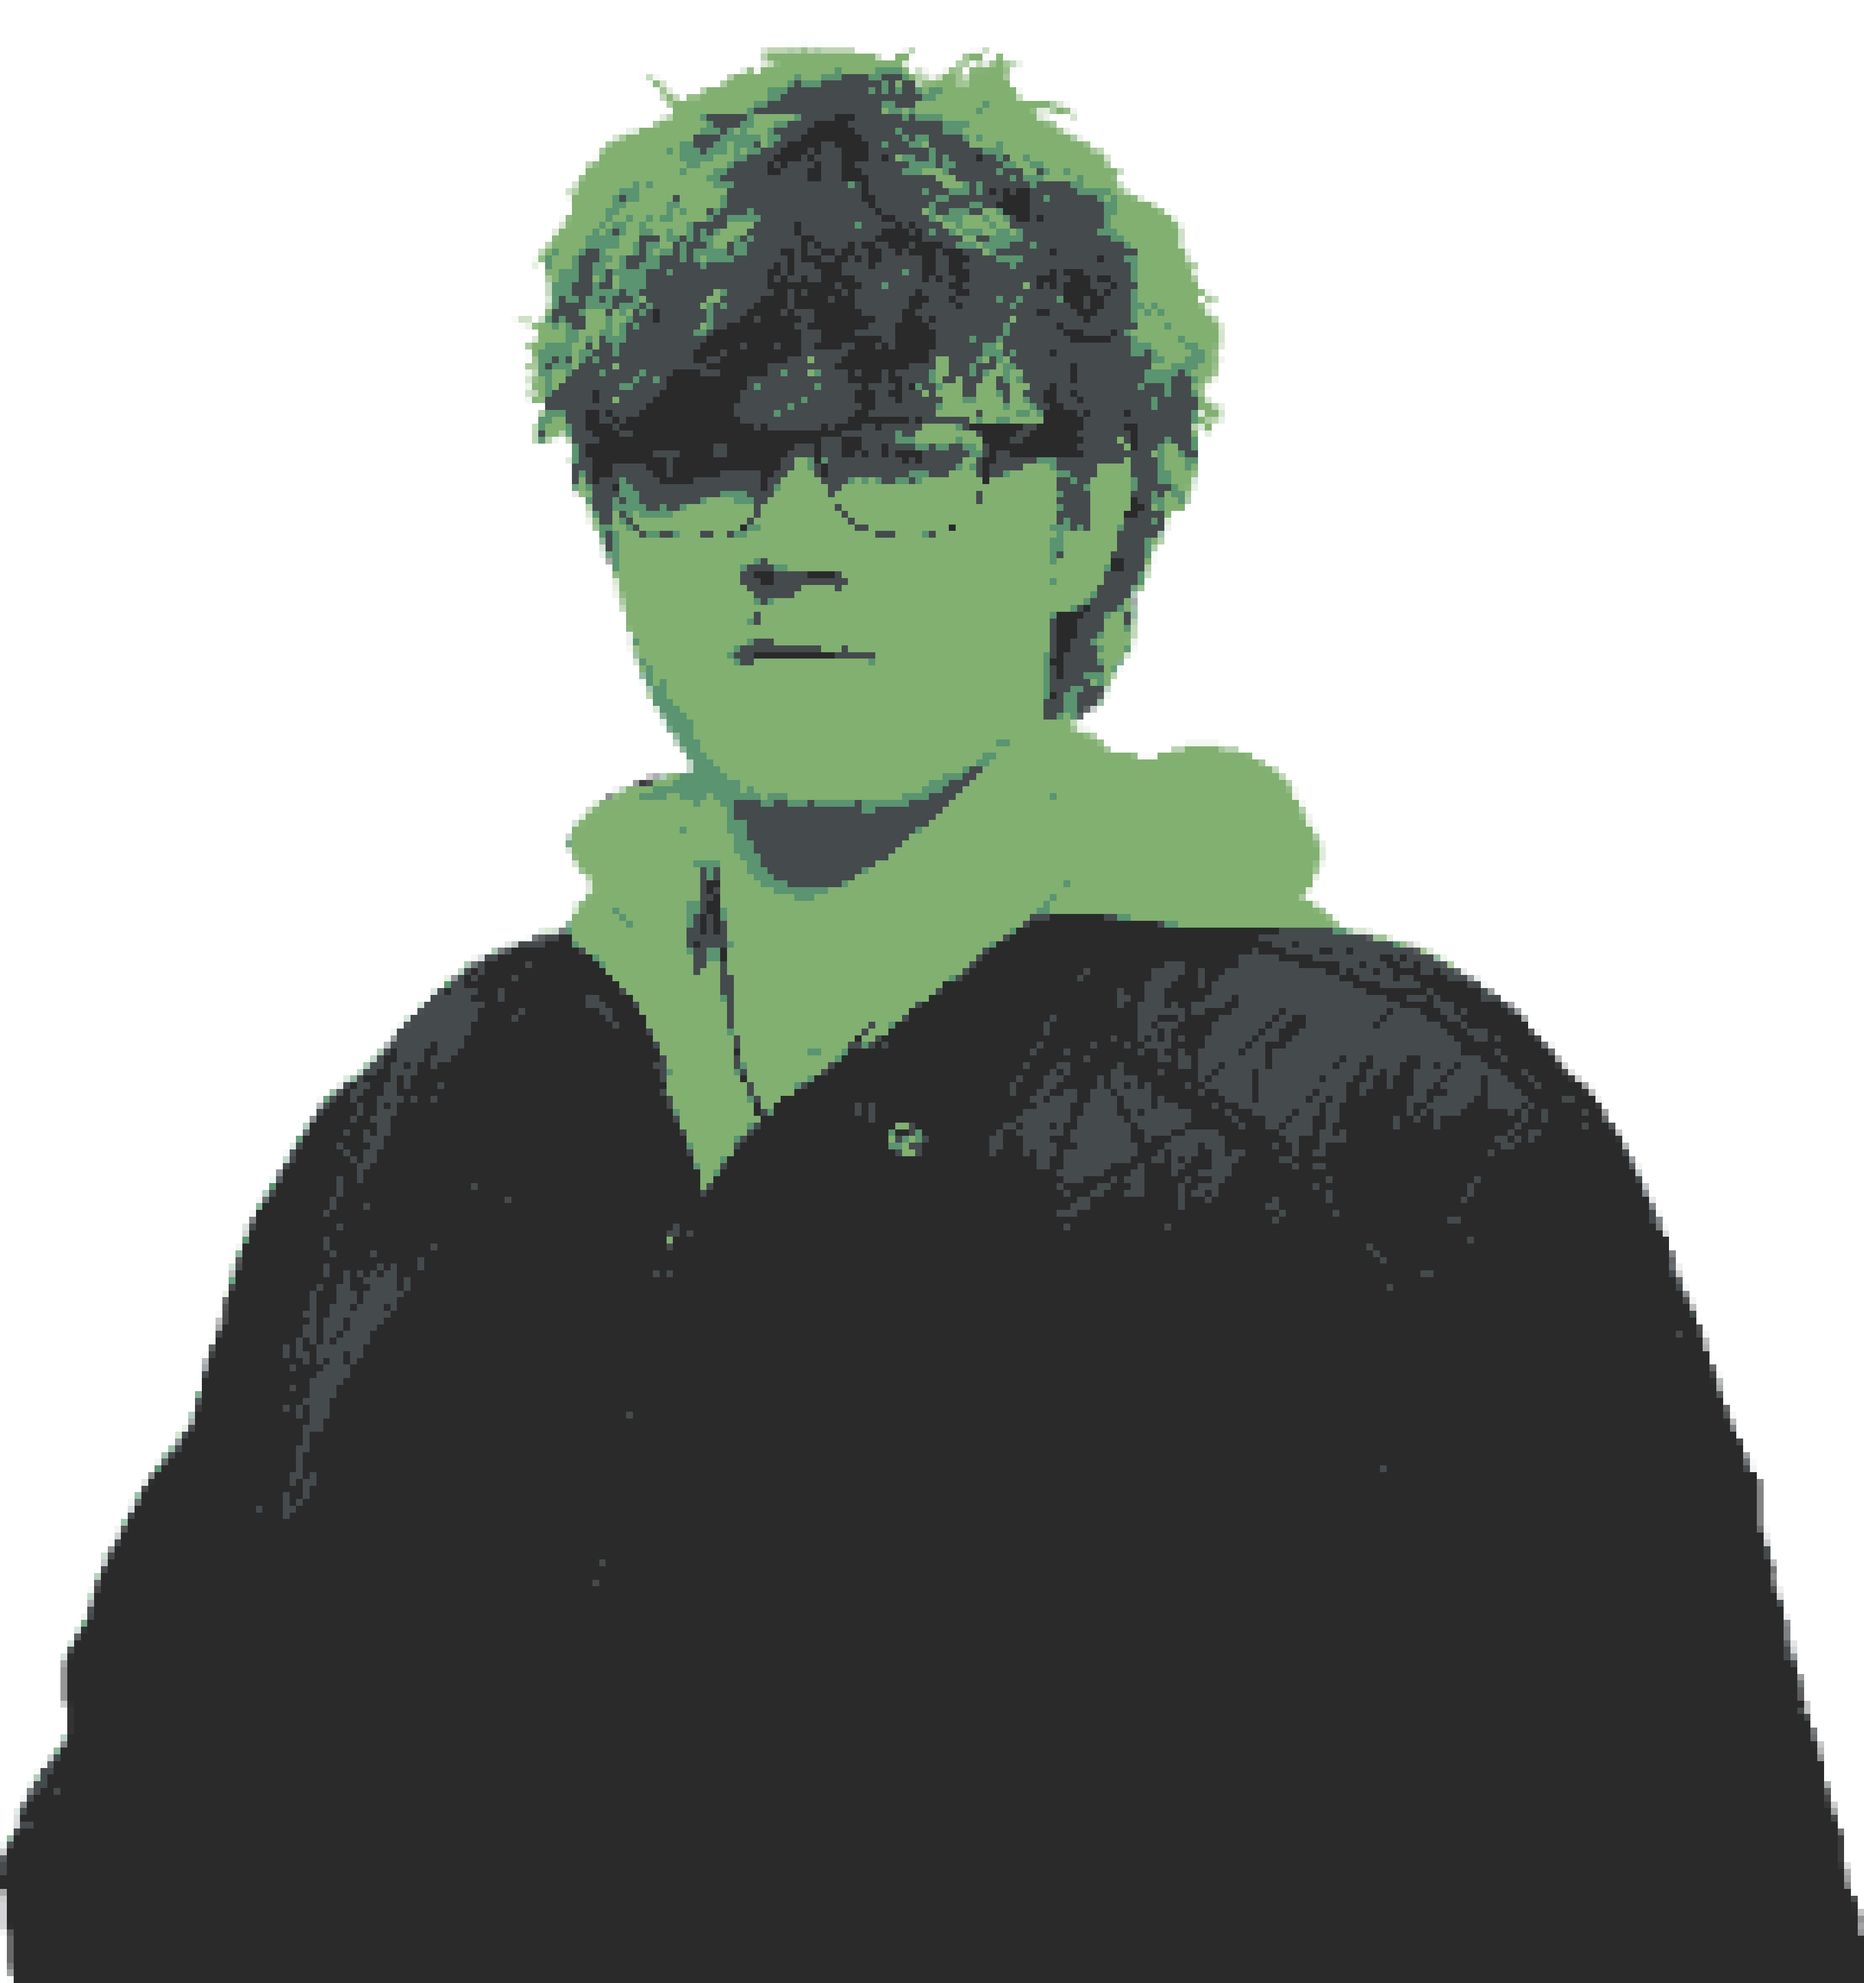
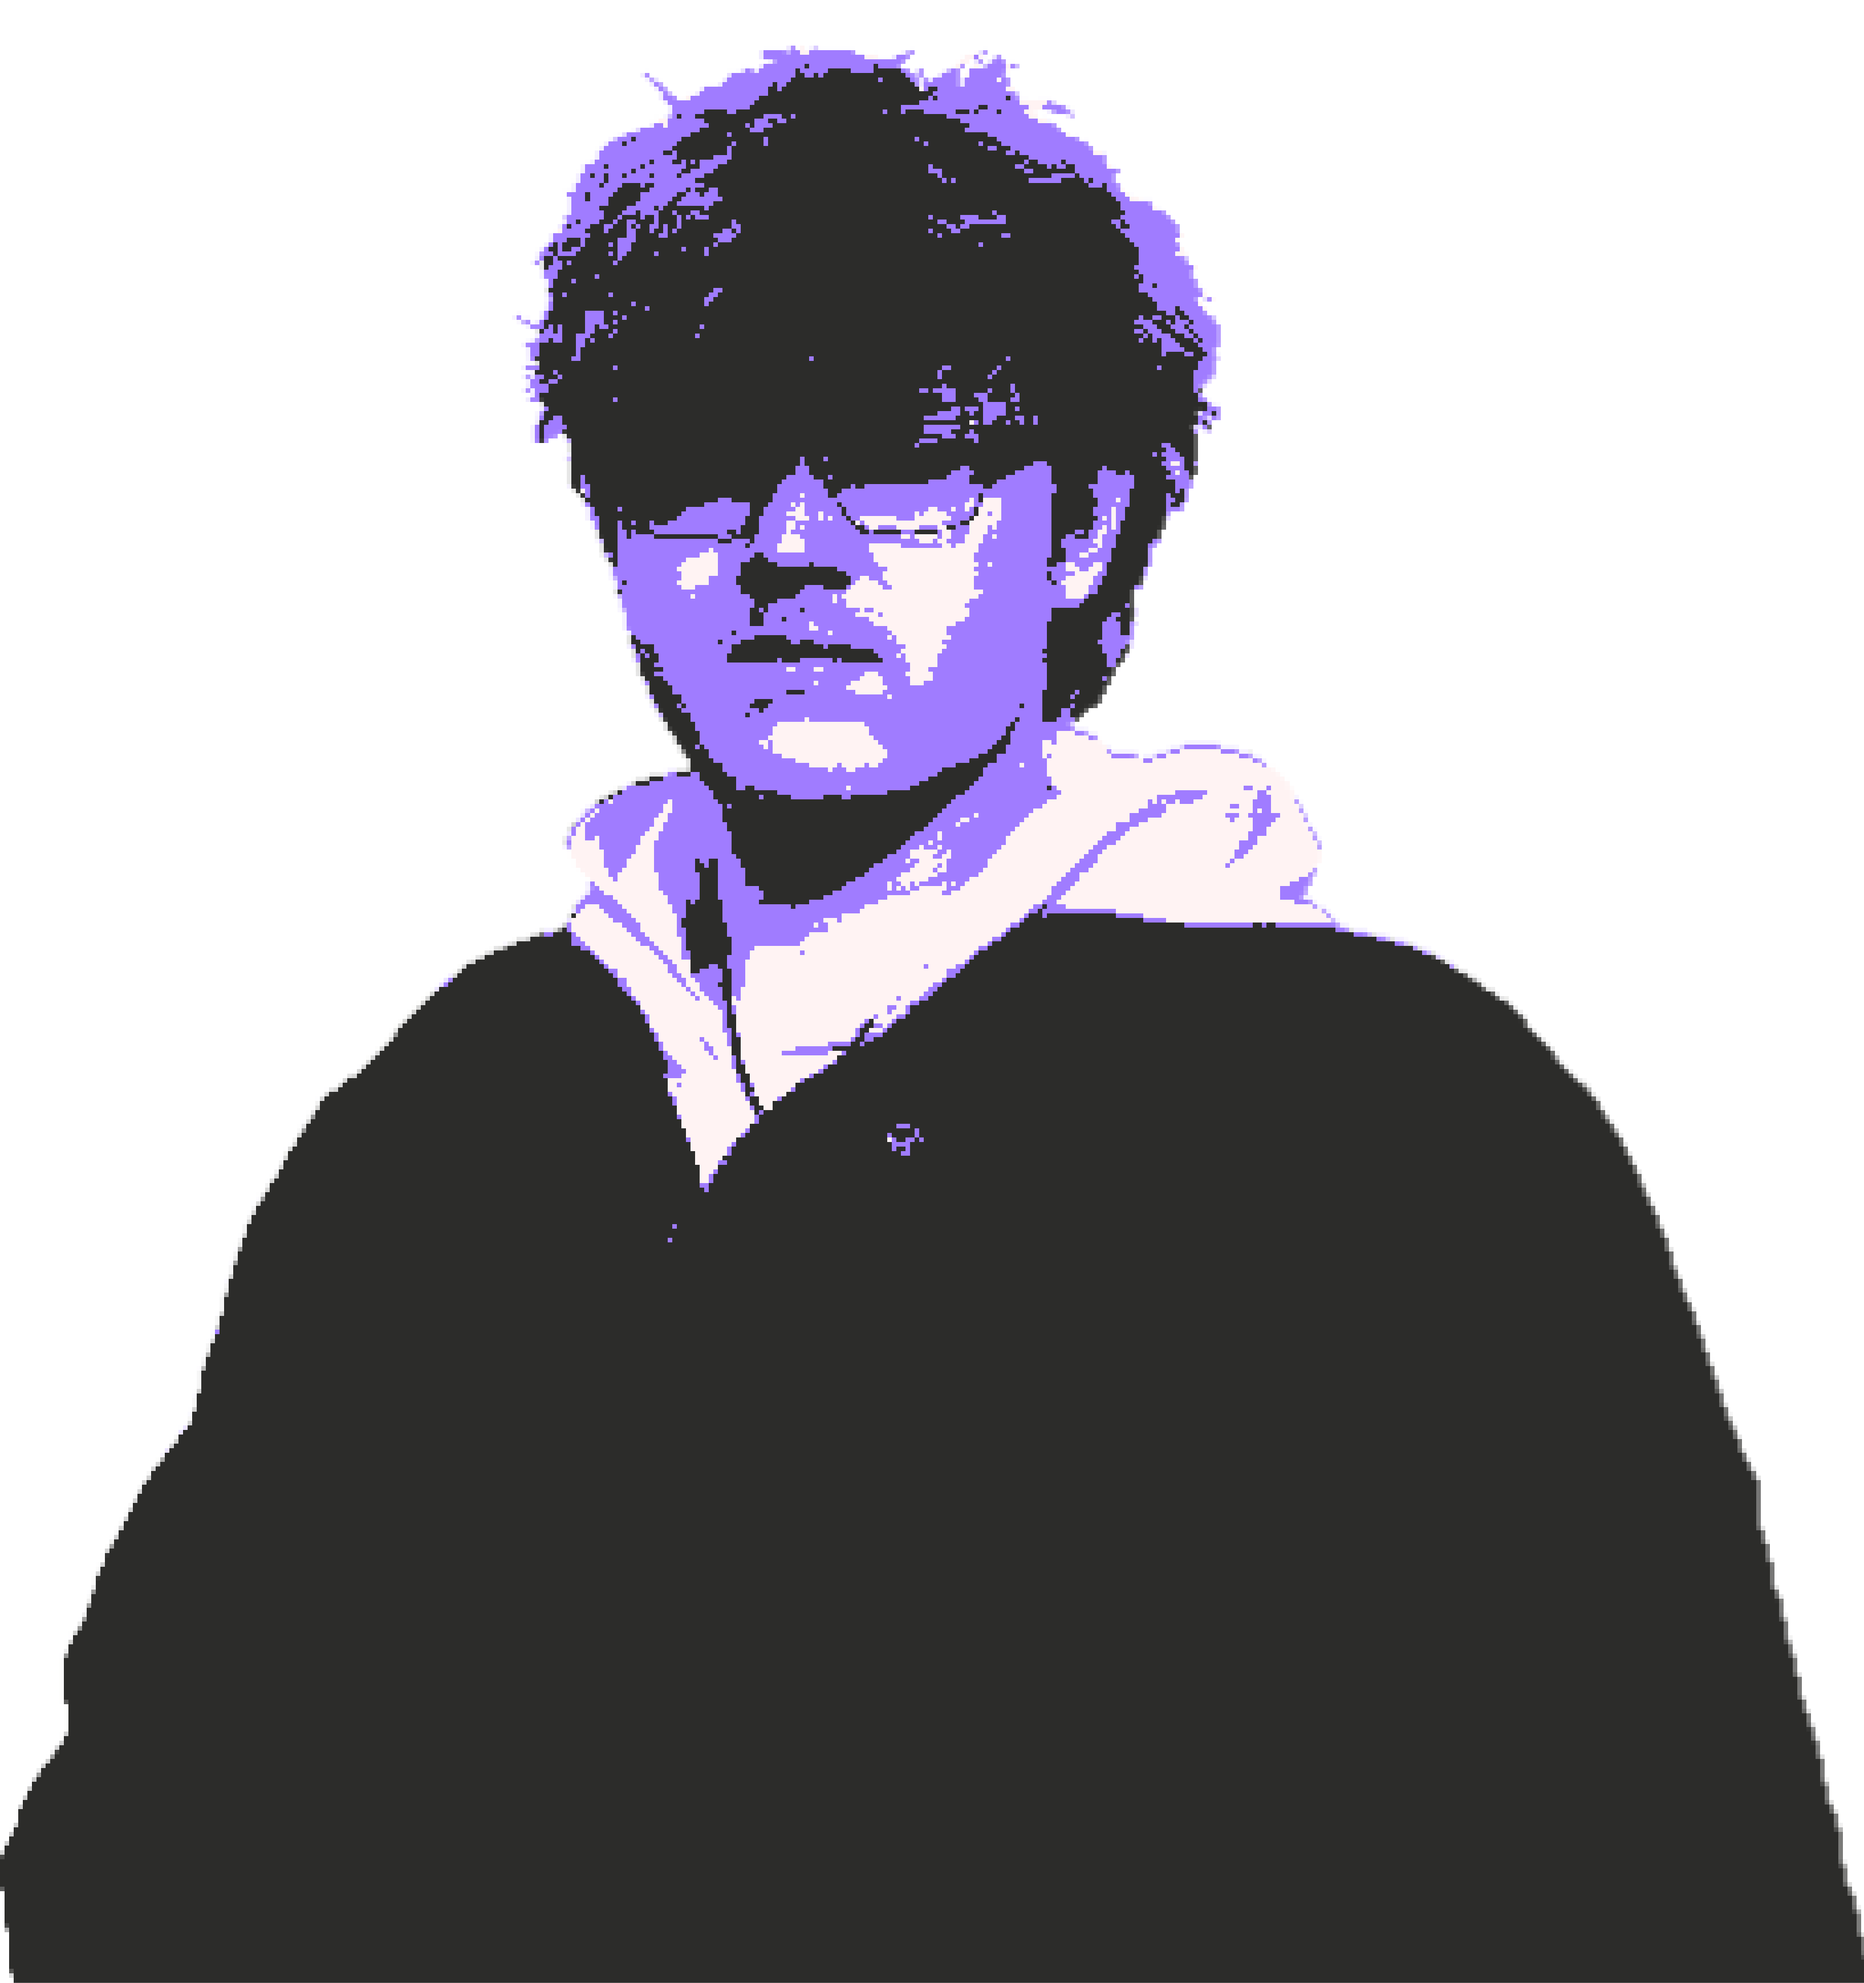
frick it andere kleuren

diff --git a/css/main.css b/css/main.css
@@ -3,7 +3,7 @@ body {
   text-align: center;
   margin: 0;
   padding: 0;
-  background-color: #2f7571;
+  background-color: #2c2c2a;
   /* background-image: url("../img/brickwallVAR2.png"); */
   display: flex;
   flex-direction: column;
@@ -19,7 +19,7 @@ body {
 
 /* Anti-text decoration */
 body a:visited {
-  color: #2a2a2b;
+  color: #fff3f3;
 }
 
 a:link {
@@ -28,32 +28,37 @@ a:link {
 
 /* Text */
 h1{
-  color: #2a2a2b;
+  color: #fff3f3;
   font-size: 50px;
-  -webkit-text-stroke: #454a4d 0.2px;
+  -webkit-text-stroke: #a07cff 0.2px;
 }
 
 h2 {
-  color: #2a2a2b;
-  -webkit-text-stroke: #454a4d 0.5px;
+  color: #fff3f3;
+  -webkit-text-stroke: #a07cff 0.5px;
 }
 
 p {
-  color: #2a2a2b;
+  color: #fff3f3;
   font-size: 30px;
-  -webkit-text-stroke: #454a4d 0.5px;
+  -webkit-text-stroke: #a07cff 0.5px;
 }
 
 h3 {
-  color: #2a2a2b;
+  color: #fff3f3;
   font-size: 35px;
-  -webkit-text-stroke: #454a4d 0.5px;
+  -webkit-text-stroke: #a07cff 0.5px;
 }
 
 h4 {
-  color: #2a2a2b;
+  color: #fff3f3;
   font-size: 40px;
-  -webkit-text-stroke: #454a4d 0.2px;
+  -webkit-text-stroke: #a07cff 0.2px;
+}
+
+h5 {
+  color: #fff3f3;
+  font-size: 25px;
 }
 
 
@@ -61,8 +66,8 @@ h4 {
 .custom-text a {
   text-decoration: none;
   font-family: VCR_OSD_MONO_1;
-  color: #2a2a2b;
-  -webkit-text-stroke: #454a4d 0.5px;
+  color: #fff3f3;
+  -webkit-text-stroke: #a07cff 0.5px;
   display: block;
   text-align: center; /* Center the text horizontally */
 }
@@ -74,11 +79,11 @@ h4 {
             left: 50%;
             font-family: VCR_OSD_MONO_1;
             font-size: 20px;
-            color: #2a2a2b;
+            color: #fff3f3;
           }
 
           .custom-text a:visited {
-            color: #2a2a2b;
+            color: #fff3f3;
           }
 
           .blinking-text {

diff --git a/css/saves.css b/css/saves.css
@@ -10,13 +10,24 @@
   line-height: 50px; /* Set line height to match button height */
   cursor: pointer;
   text-decoration: none;
-  color: #5a9470;
+  color: #fff3f3;
   position: relative; /* Add relative positioning */
 }
 
+.btn:hover {
+  background-color: #fff3f3;
+  color: #2c2c2a !important;
+  text-shadow: none;
+  top: -2px; /* Offset the button slightly up when hovering */
+  padding-left: 15px;
+  padding-right: 15px;
+  padding-top: -30px;
+  padding-bottom: -30px;
+}
+
 .btn:hover, .inv {
-  background-color: #81b071;
-  color: #5a9470;
+  background-color: #fff3f3;
+  color: #2c2c2a !important;
   text-shadow: none;
   top: -2px; /* Offset the button slightly up when hovering */
   padding-left: 15px;
@@ -29,8 +40,8 @@
   display: inline-block;
   height: 16px;
   line-height: 15px;
-  background-color: #81b071;
-  color: #5a9470;
+  background-color: #fff3f3;
+  color: #fff3f3;
   text-shadow: none;
 }
 
@@ -40,7 +51,6 @@
   justify-content: center;
   height: 20px;
   padding: 0 3px;
-  background-color: #81b071;
-  color: #5a9470;
+  background-color: #fff3f3;
   text-shadow: none;
 }

diff --git a/css/contact.css b/css/contact.css
@@ -3,7 +3,7 @@
 #2f7571 Background
 #81b071 Button background
 #2a2a2b Text
-#5a9470 Hover text 
+#2c2c2a Hover text 
 */
 
 .row {
@@ -32,11 +32,16 @@
         padding: 10px;
         border: none;
         cursor: pointer;
+        width: 200px;
+        height: 10px;
+        padding-bottom: 20px;
     }
 
     .category-div:hover {
-        background-color: #5a9470;
-        color: #2a2a2b;
+        background-color: #fff3f3;
+        margin: 10px;
+        padding: 10px;
+        
     }
 
     .category-content {
@@ -56,6 +61,11 @@
     }
 
     .category-content a:hover {
-        background-color: #5a9470;
+        background-color: #2c2c2a;
         color: #2a2a2b;
+        border: 2px solid #a07cff;
+    }
+
+    p{
+        padding-top: 20px;
     }

diff --git a/css/aboutme.css b/css/aboutme.css
@@ -9,6 +9,8 @@
     max-width: 100%; /* Ensure the image is responsive */
     width: 500px; /* Customize the width as needed */
     height: auto; /* Maintain aspect ratio */
+    border: 5px solid #a07cff;
+    background-color: #fff3f3;
   }
   
   /* Text Box */
@@ -24,10 +26,10 @@
   }
 
   #text-box {
-    font-size: 20px;
-    color: #2a2a2a ;
+    font-size: 25px;
+    color: #fff3f3 ;
     -webkit-text-stroke: 0.5px;
-    -webkit-text-stroke-color: #454a4d;
+    -webkit-text-stroke-color: #a07cff;
   }
   
   

diff --git a/css/projects.css b/css/projects.css
@@ -15,10 +15,19 @@
     flex: 50%;
     padding: 10px;
     margin: 0 150px;
+    
 }
 
-    .column img {
-        max-width: auto;
-        height: 250px;
+.column img {
+    max-width: auto;
+    height: 250px;
+    border: 5px solid #a07cff;
+    border-radius: 2px;
+    background-clip: padding-box;
+    box-decoration-break: clone;
+}
 
-    }
+
+.column:hover img {
+    border: 5px solid #fff3f3;
+}
